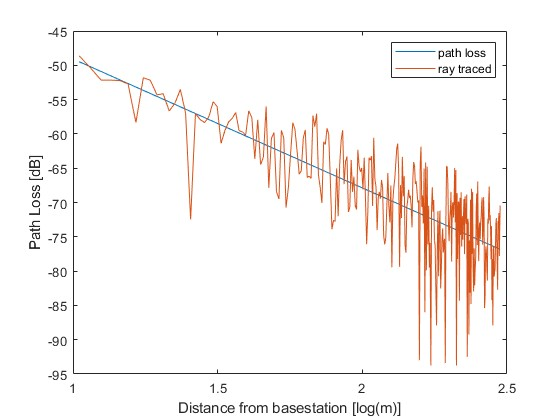
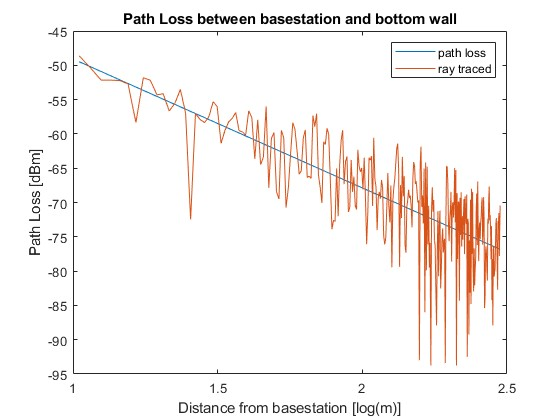
fixed and added a figure

Changed region(s): [[0.2125, 0.031, 0.8196, 0.0619], [0.0304, 0.3405, 0.0911, 0.619]]

diff --git a/main.m b/main.m
@@ -311,7 +311,7 @@ figure
 plot(bs_to_wall_x, path_loss)
 %set(gca, 'XDir','reverse')
 xlabel('Distance from basestation [log(m)]')
-ylabel('Path Loss [dB]')
+ylabel('Path Loss [dBm]')
 title('Path Loss between basestation and bottom wall')
 hold on
 plot(bs_to_wall_x, received_power_dBm(line_index))
@@ -363,6 +363,7 @@ legend('statistical', 'ray traced')
 %% cell range as a function of the connection probability at the cell edge
 
 receiver_sensitivy = thermal_noise_power + rx_noise_figure + rx_target_snr; %dBm
+connection_probability = 0.01:0.01:0.99;
 gammas = erfcinv(2*(1 - connection_probability))*sqrt(variance)*sqrt(2); %dB
 L_max = db(EIRP, 'power') + 0 - receiver_sensitivy - gammas; % is equal to -Prx since EIRP = 0;
 P_rx_max = -L_max + 30; %dBm (formula 3.79) -> Ptx = 0 + 30 dBm
@@ -370,6 +371,11 @@ P_rx_max = -L_max + 30; %dBm (formula 3.79) -> Ptx = 0 + 30 dBm
 d_max = ((P_rx_max - b_line(2))./b_line(1)); %log(meter)
 
 d_max = 10.^d_max; % meter
+
+figure
+plot(connection_probability*100, d_max)
+xlabel('connection probabilty [%]')
+ylabel('Cell range [m]')
 
 
 
